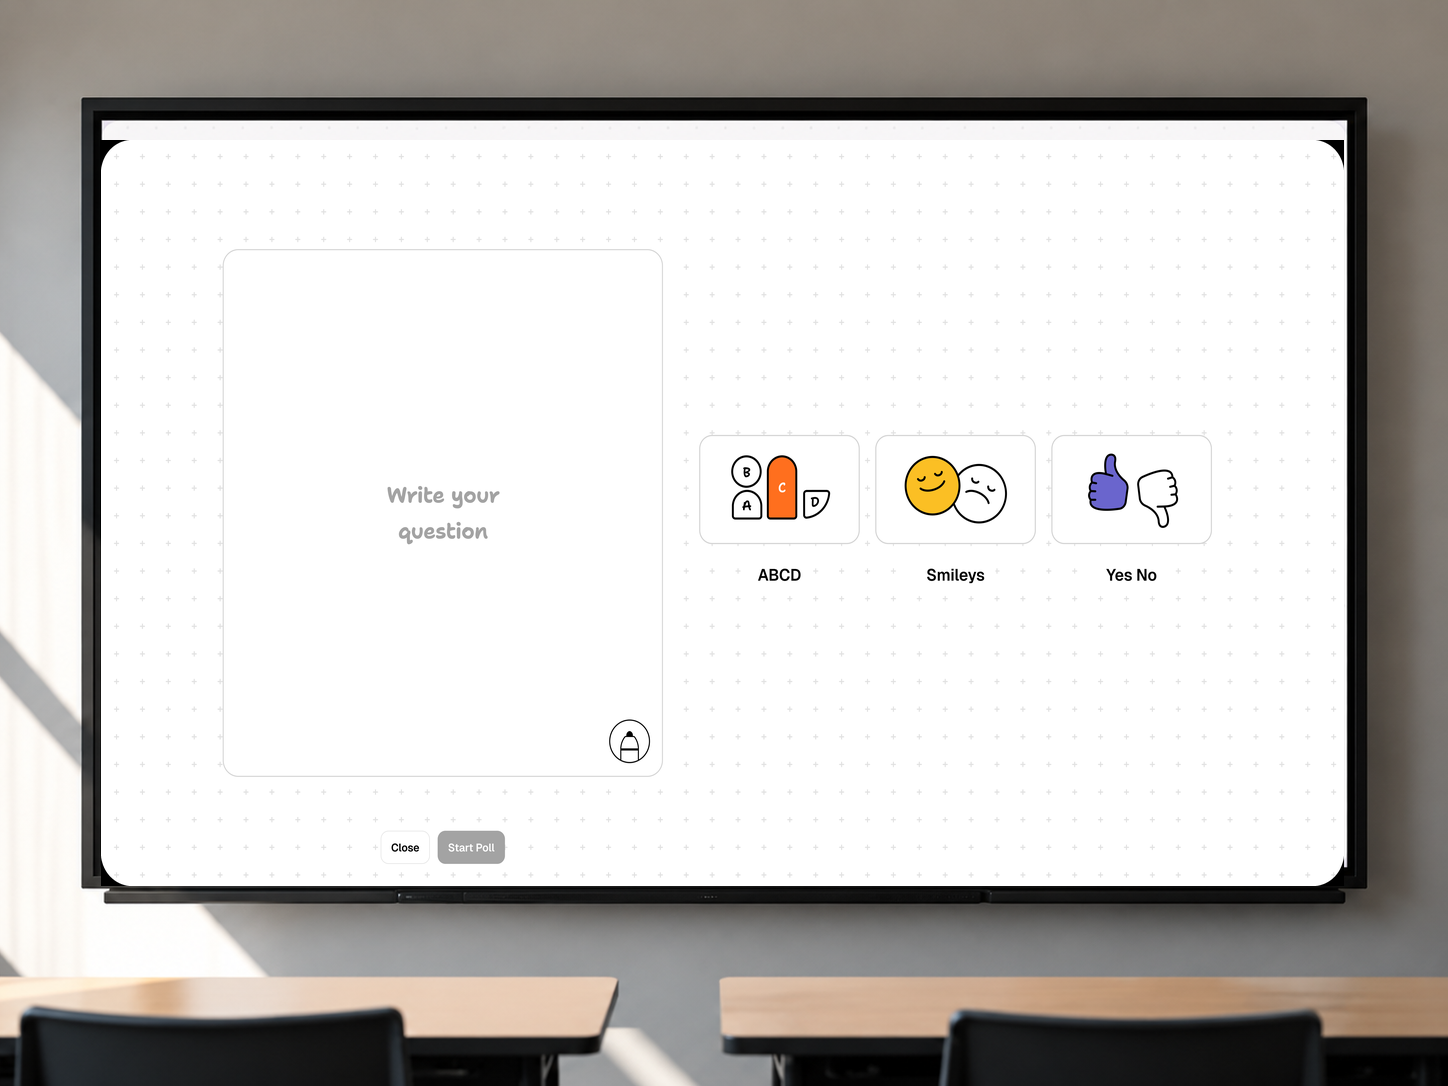
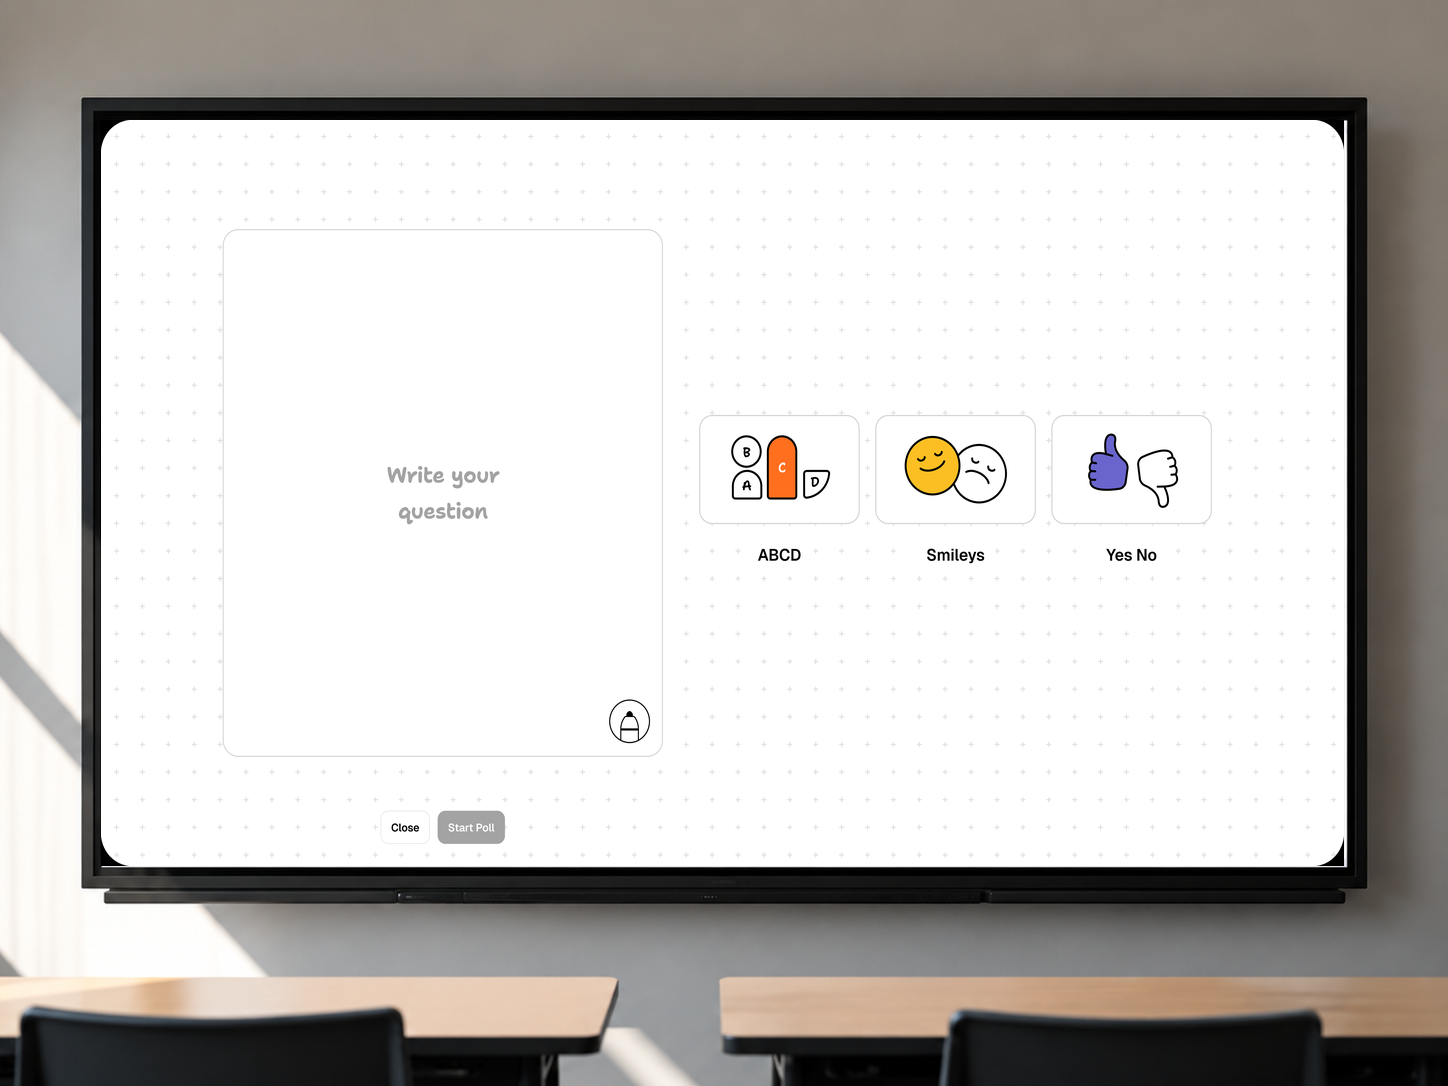
Move poll mockup down 20px via CSS inset offset

diff --git a/app/page.tsx b/app/page.tsx
@@ -31,9 +31,7 @@ const work = [
     href: "#",
     image: "/Poll Project.png",
     alt: "Poll Design mockup",
-    inset: "0px",
-    cover: true,
-    tallCard: true,
+    inset: "20px 0px -20px 0px",
     comingSoon: true,
   },
 ];